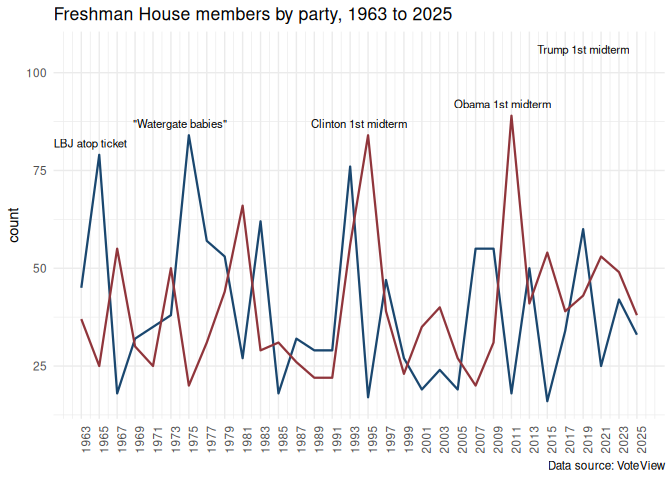
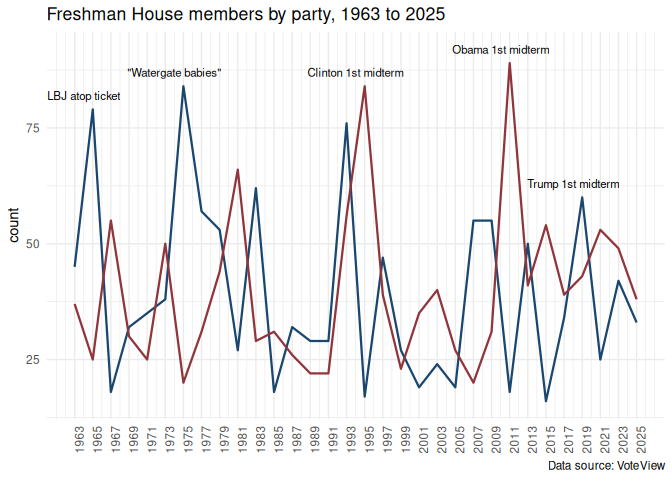
rework

diff --git a/README.md b/README.md
@@ -186,8 +186,8 @@ vvo <- lapply(c('house', 'senate'), function(x) {
     filter(chamber != 'President') }) 
 ```
 
-    ## [1] "/tmp/RtmpmXIQAQ/Hall_members.csv"
-    ## [1] "/tmp/RtmpmXIQAQ/Sall_members.csv"
+    ## [1] "/tmp/RtmpVdPlzr/Hall_members.csv"
+    ## [1] "/tmp/RtmpVdPlzr/Sall_members.csv"
 
 ``` r
 congress00 <- vvo |>
@@ -1028,10 +1028,9 @@ labs <- freshmen1 |>
 # Add Trump's first midterm (2018 election, 2019 Congress)
 trump_midterm <- freshmen1 |>
   filter(min == 2018) |>
-  summarise(min = first(min),
-            count = sum(count)) |>
-  mutate(txt = 'Trump 1st midterm',
-         min = min + 1)  # Match the plot's x = min + 1
+  arrange(desc(count)) |>
+  slice(1) |>
+  mutate(txt = 'Trump 1st midterm')
 
 labs <- bind_rows(labs, trump_midterm)
 
